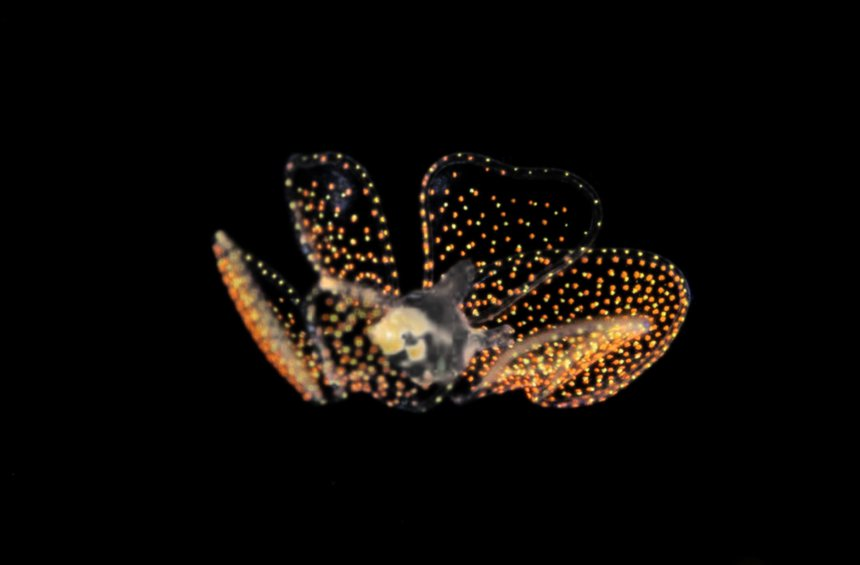
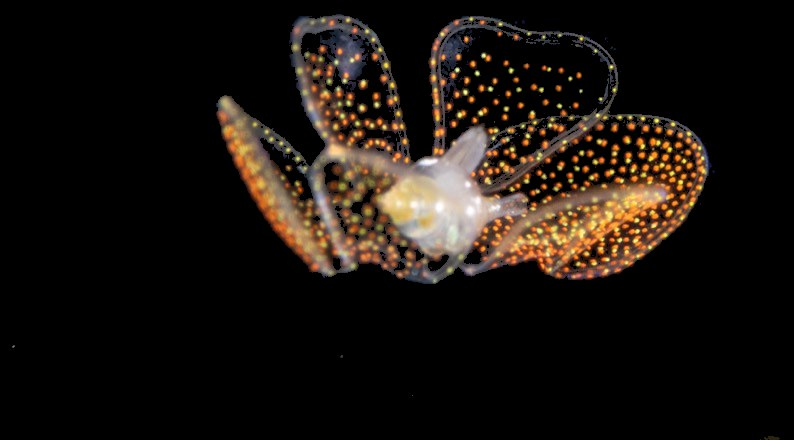
Make side subject cutouts fully opaque on black

Changed region(s): [[0.2418, 0.0295, 0.9068, 0.7386], [0.9673, 0.975, 0.9975, 1.0]]

diff --git a/index.html b/index.html
@@ -476,11 +476,11 @@
       object-position: center;
       border-radius: 0;
       background: transparent;
-      opacity: 0.99;
+      opacity: 1;
       transform: rotate(var(--r));
       transform-origin: center center;
       mix-blend-mode: normal;
-      filter: brightness(1.03) contrast(1.08);
+      filter: none;
     }
     .side-decor.left .c1 { --y: 0.8%; --x: 4%; --h: 20vh; --r: -14deg; }
     .side-decor.left .c2 { --y: 19.5%; --x: 34%; --h: 17vh; --r: 12deg; }
